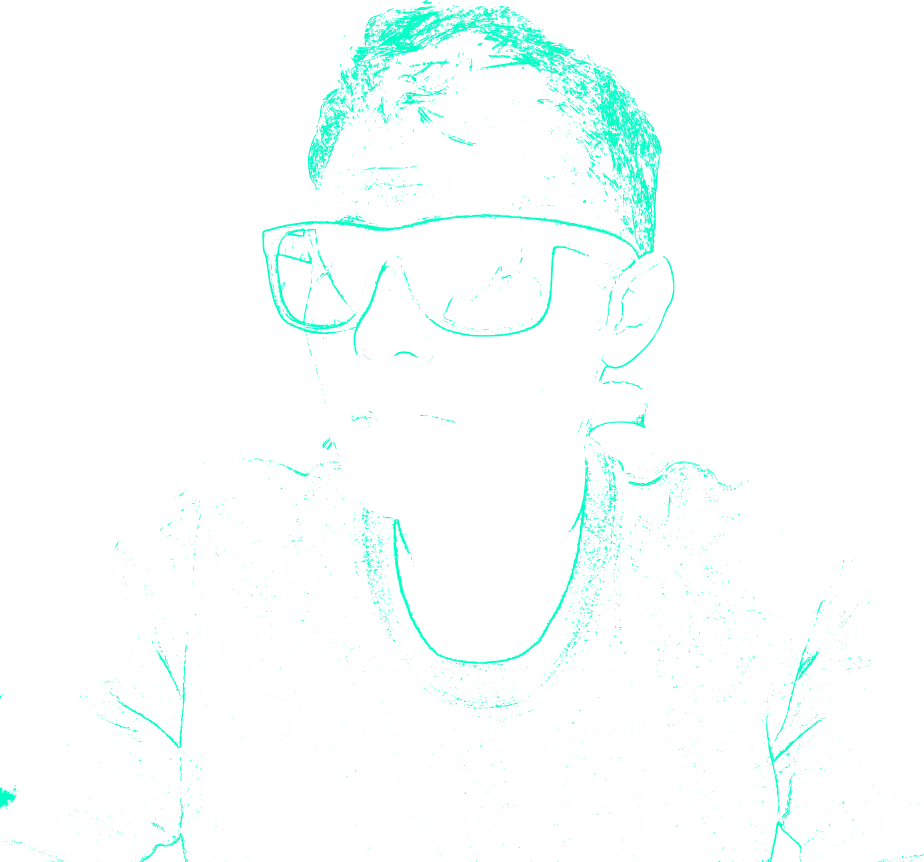
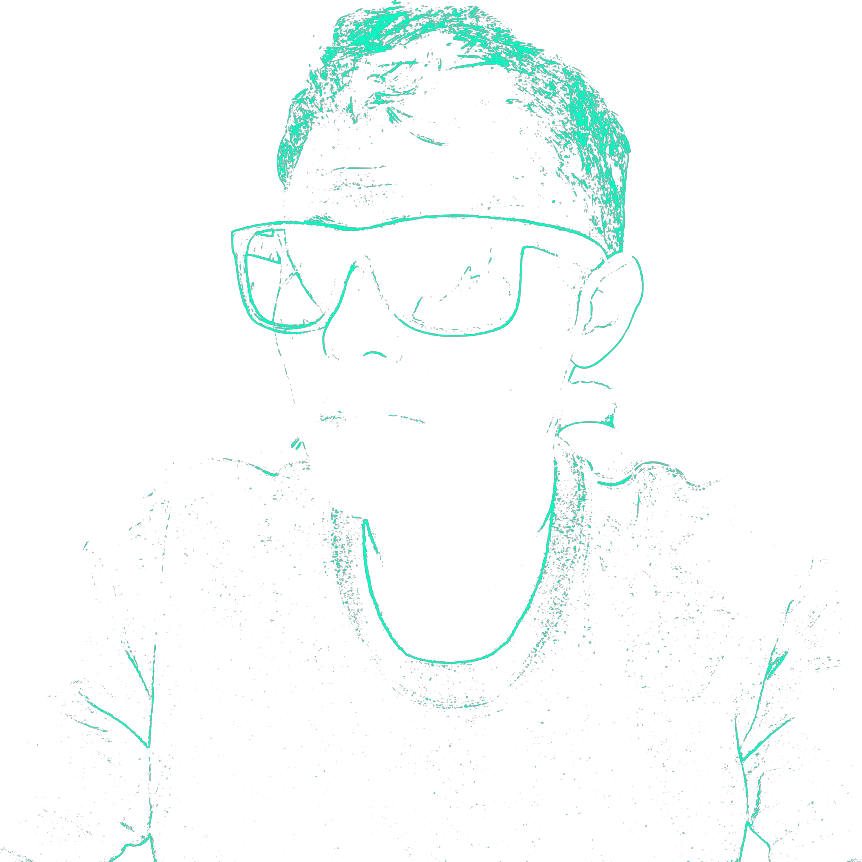
content update

diff --git a/work.html b/work.html
@@ -258,8 +258,13 @@
           </div>
           <div class="row">
             <div class="subtitle-text-left">
-              <p1>< View assignment PDF <a target="_blank" rel="noopener noreferrer" HREF="https://drive.proton.me/urls/W5RSPFC8AG#ZAotJt6HAN94">HERE.</a> ></p1>
+              <p1>< View assignment <a target="_blank" rel="noopener noreferrer" HREF="https://drive.proton.me/urls/W5RSPFC8AG#ZAotJt6HAN94">HERE.</a> ></p1>
             </div>
+          </div>
+          <div class="row">
+              <div class="description-text">
+                <p1>I learned</p1>
+              </div>
           </div>
           <div class="divider-container">
             <div class="media-divider"></div>
@@ -314,7 +319,7 @@
                 <p1>Server Client Output</p1>
               </div>
               <div class="img-wrapper">
-                <img src="media/code/tcp-wordle-server/tcp-wordle-server-client.jpg" loading="lazy"/>
+                <img src="media/code/tcp-wordle-server/tcp-wordle-server-server.jpg" loading="lazy"/>
               </div>
             </div>
             <div class="column">
@@ -322,13 +327,13 @@
                 <p1>Server Output</p1>
               </div>
               <div class="img-wrapper">
-                <img src="media/code/tcp-wordle-server/tcp-wordle-server-server.jpg" loading="lazy"/>
+                <img src="media/code/tcp-wordle-server/tcp-wordle-server-client.jpg" loading="lazy"/>
               </div>
             </div>
           </div>
           <div class="row">
             <div class="subtitle-text-left">
-              <p1>< View assignment PDF <a target="_blank" rel="noopener noreferrer" HREF="https://drive.proton.me/urls/FXEQG5S6BG#EKvkxv2FXhV9">HERE.</a> ></p1>
+              <p1>< View assignment <a target="_blank" rel="noopener noreferrer" HREF="https://drive.proton.me/urls/FXEQG5S6BG#EKvkxv2FXhV9">HERE.</a> ></p1>
             </div>
           </div>
           <div class="divider-container">

diff --git a/about.html b/about.html
@@ -20,14 +20,17 @@
       <div class="info-showcase">
         <div class="row">
           <div class="column">
-            <div class="description-text">
-              <p3>Thanks for visiting my website! I'm an undergraduate at Rensselaer Polytechnic Institute. I'm studying Computer Science,
-                and I have extensive experience with 3D Design. This site serves as both an archive for my favorite programming projects and a portfolio
-                for my 3D design media.</p3>
+            <div class="row">
+              <div class="description-text">
+                <p1>Thanks for visiting my website! I'm an undergraduate at Rensselaer Polytechnic Institute. I'm studying Computer Science,
+                  and I have extensive experience with 3D Design. This site serves as both an archive for my favorite programming projects and a portfolio
+                  for my 3D design media.</p1>
+              </div>
             </div>
           </div>
           <div class="column">
-            <div class="img-wrapper">
+            <div class="divider-container"></div>
+            <div class="circle-img-wrapper">
               <img src="media/self-portrait-2.png"/>
             </div>
           </div>

diff --git a/styles.css b/styles.css
@@ -524,6 +524,18 @@ a:active { text-decoration: none; }
   padding: 5px;
 }
 
+.circle-img-wrapper {
+  position: relative;
+  margin: auto;
+  max-width: 90%;
+  padding: 5px;
+  border-style: solid;
+  border-width: 5px;
+  border-color: #00FFC5;
+  border-radius: 100%;
+  overflow: hidden;
+}
+
 .gallery-img-wrapper {
   position: relative;
   margin: auto;
@@ -682,6 +694,9 @@ a:active { text-decoration: none; }
     margin: auto;
     padding-top: 10px;
     padding-bottom: 10px;
+  }
+  .circle-img-wrapper {
+    width: 75%;
   }
 }
 
